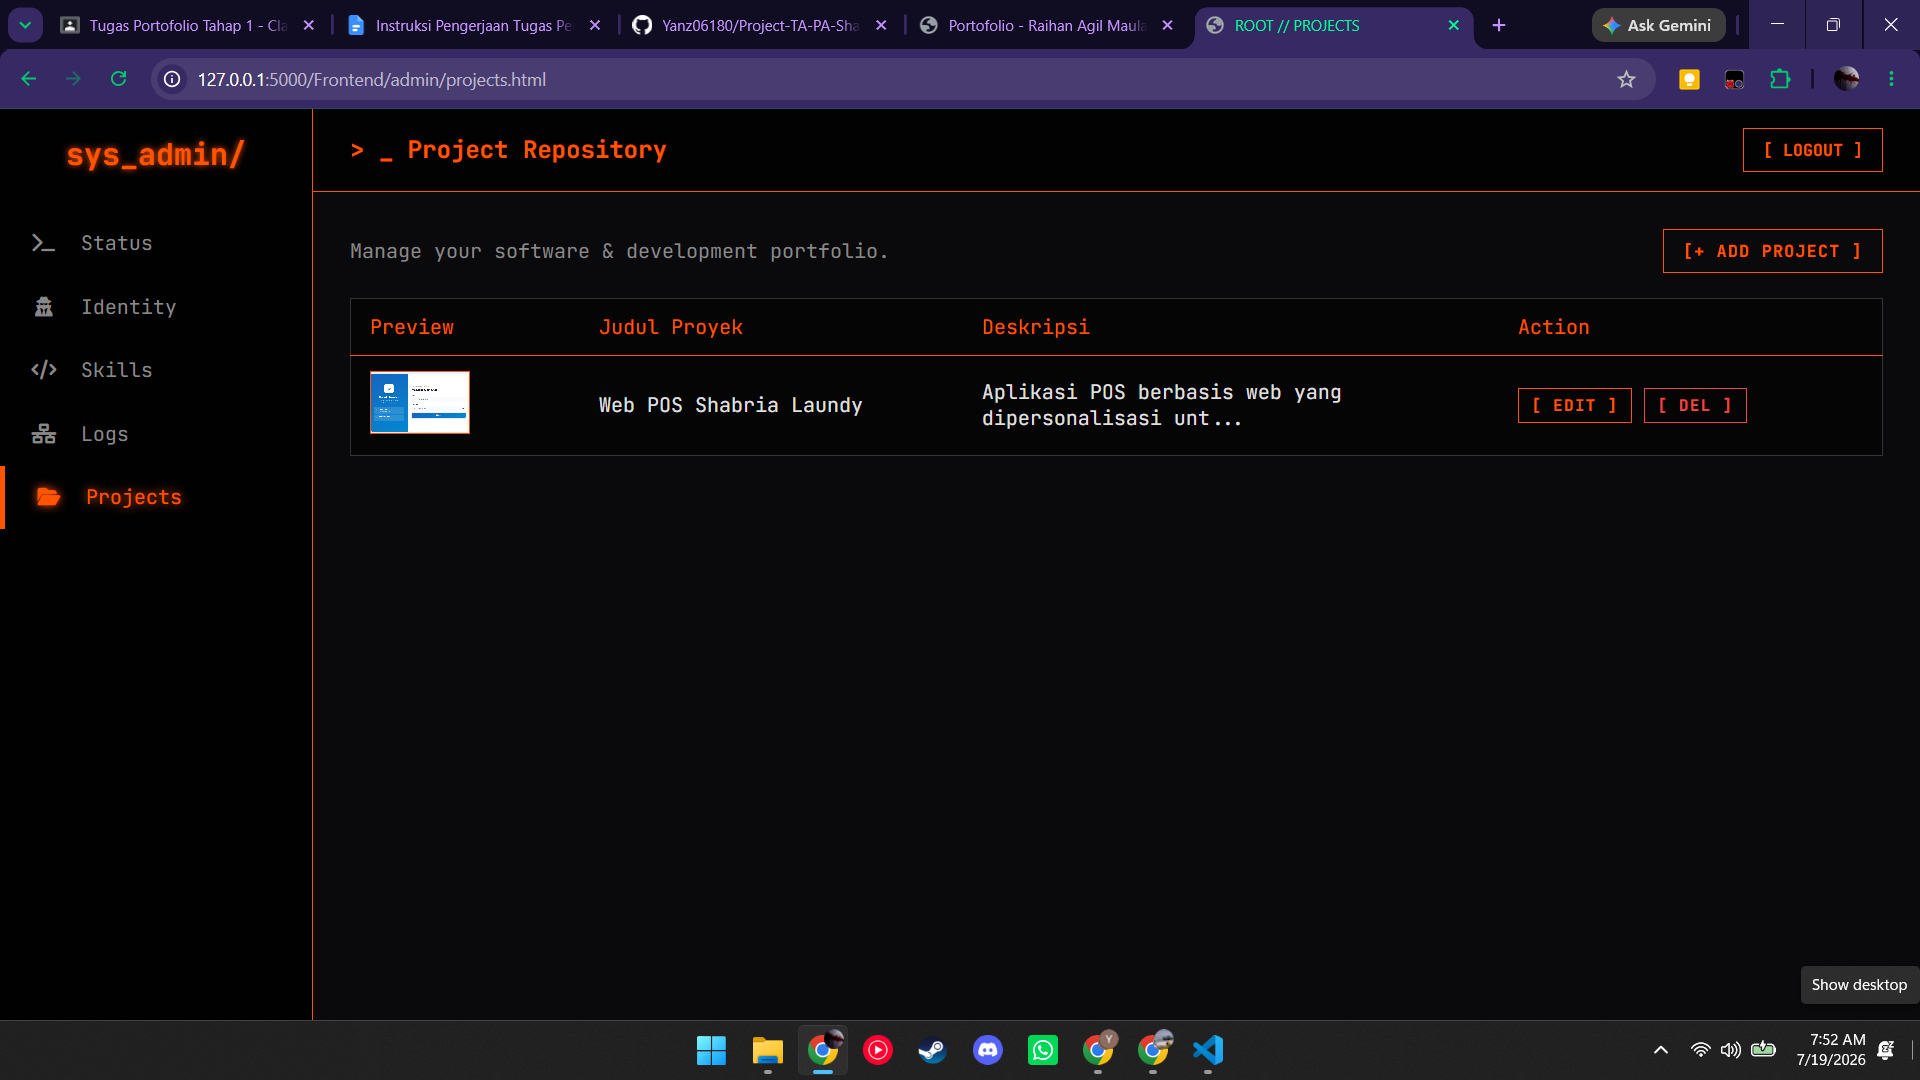
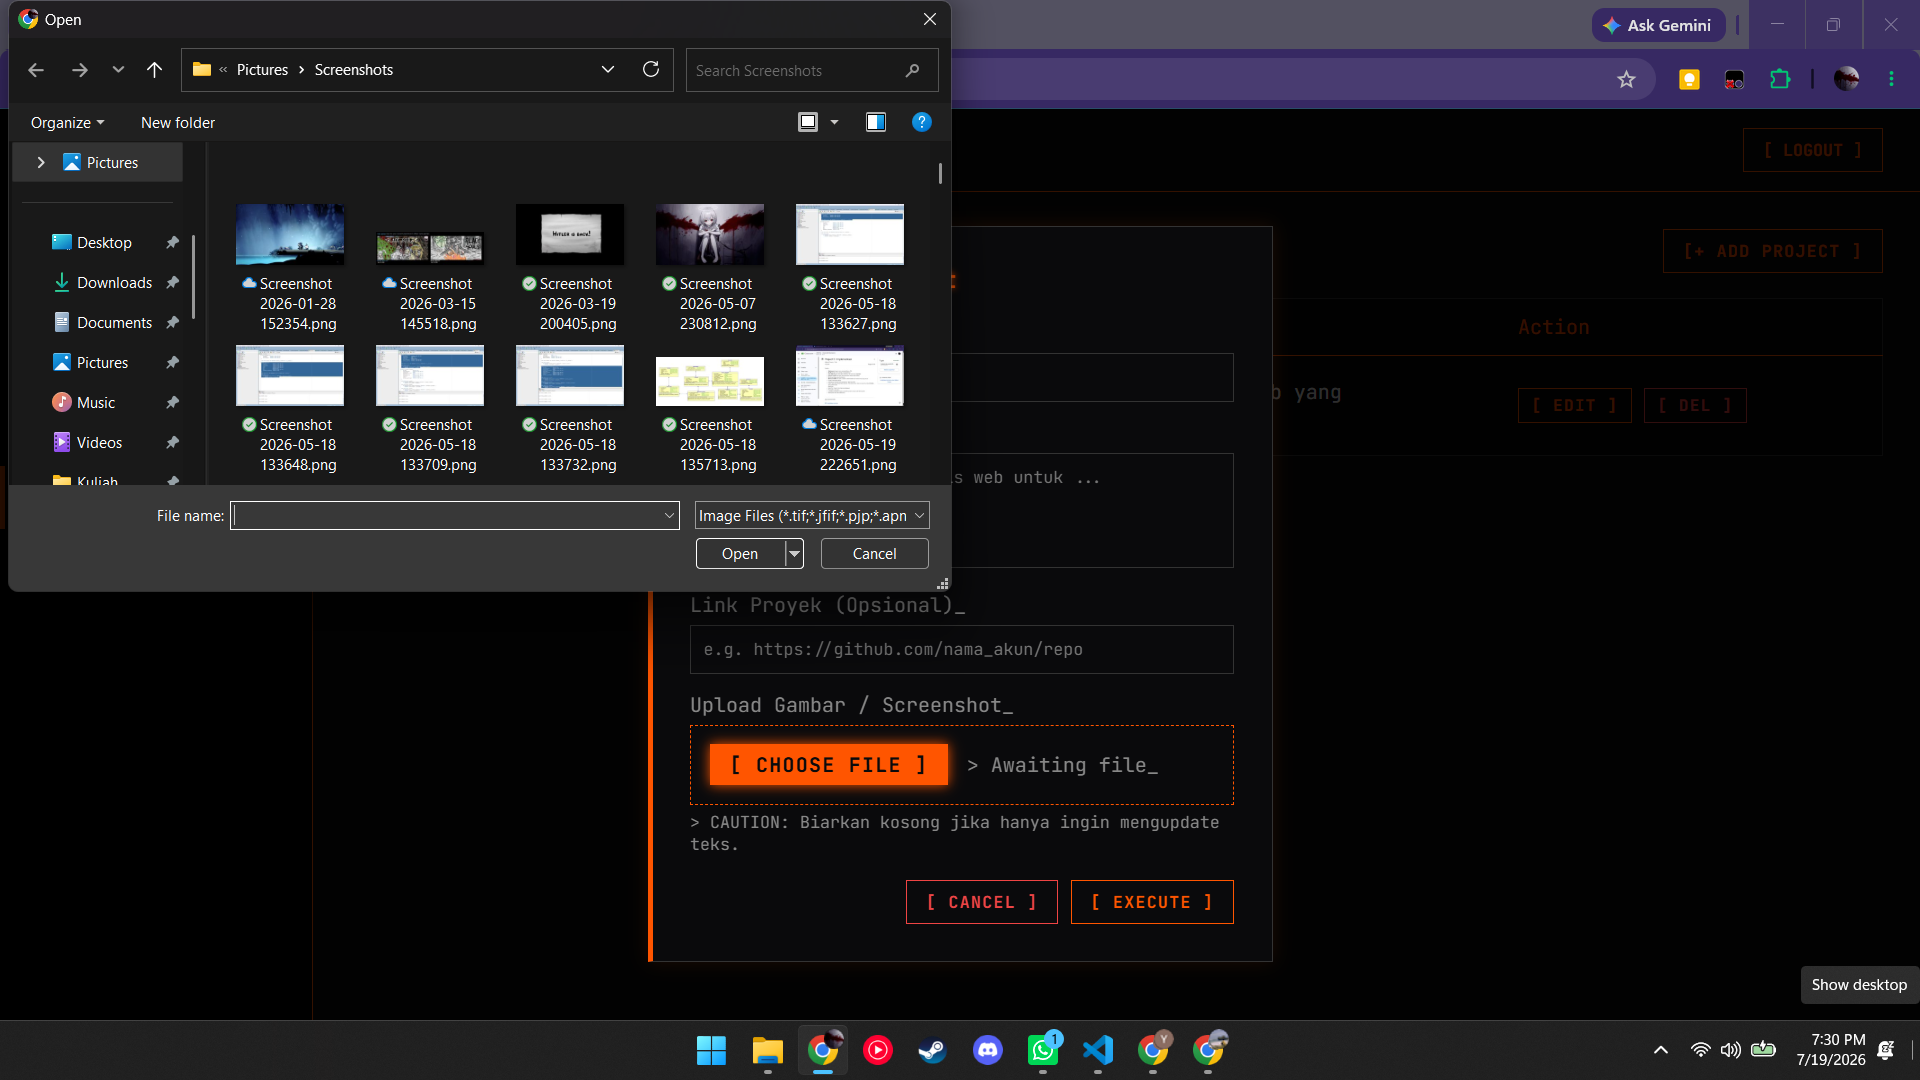
minor fixes: comments and photo proof

diff --git a/Frontend/admin/css/login.css b/Frontend/admin/css/login.css
@@ -67,7 +67,7 @@
             display: block;
             text-align: center;
             margin-top: 1.5rem;
-            color: #888888; /* Warna abu-abu redup */
+            color: #888888;
             text-decoration: none;
             font-size: 0.9rem;
             letter-spacing: 2px;
@@ -75,7 +75,7 @@
         }
 
         .btn-return:hover {
-            color: #FF5500; /* Warna neon oranye lu */
+            color: #FF5500;
             text-shadow: 0 0 8px rgba(255, 85, 0, 0.6);
         }
         #error-msg { color: #ef4444; text-align: center; margin-bottom: 15px; font-size: 14px; display: none; }